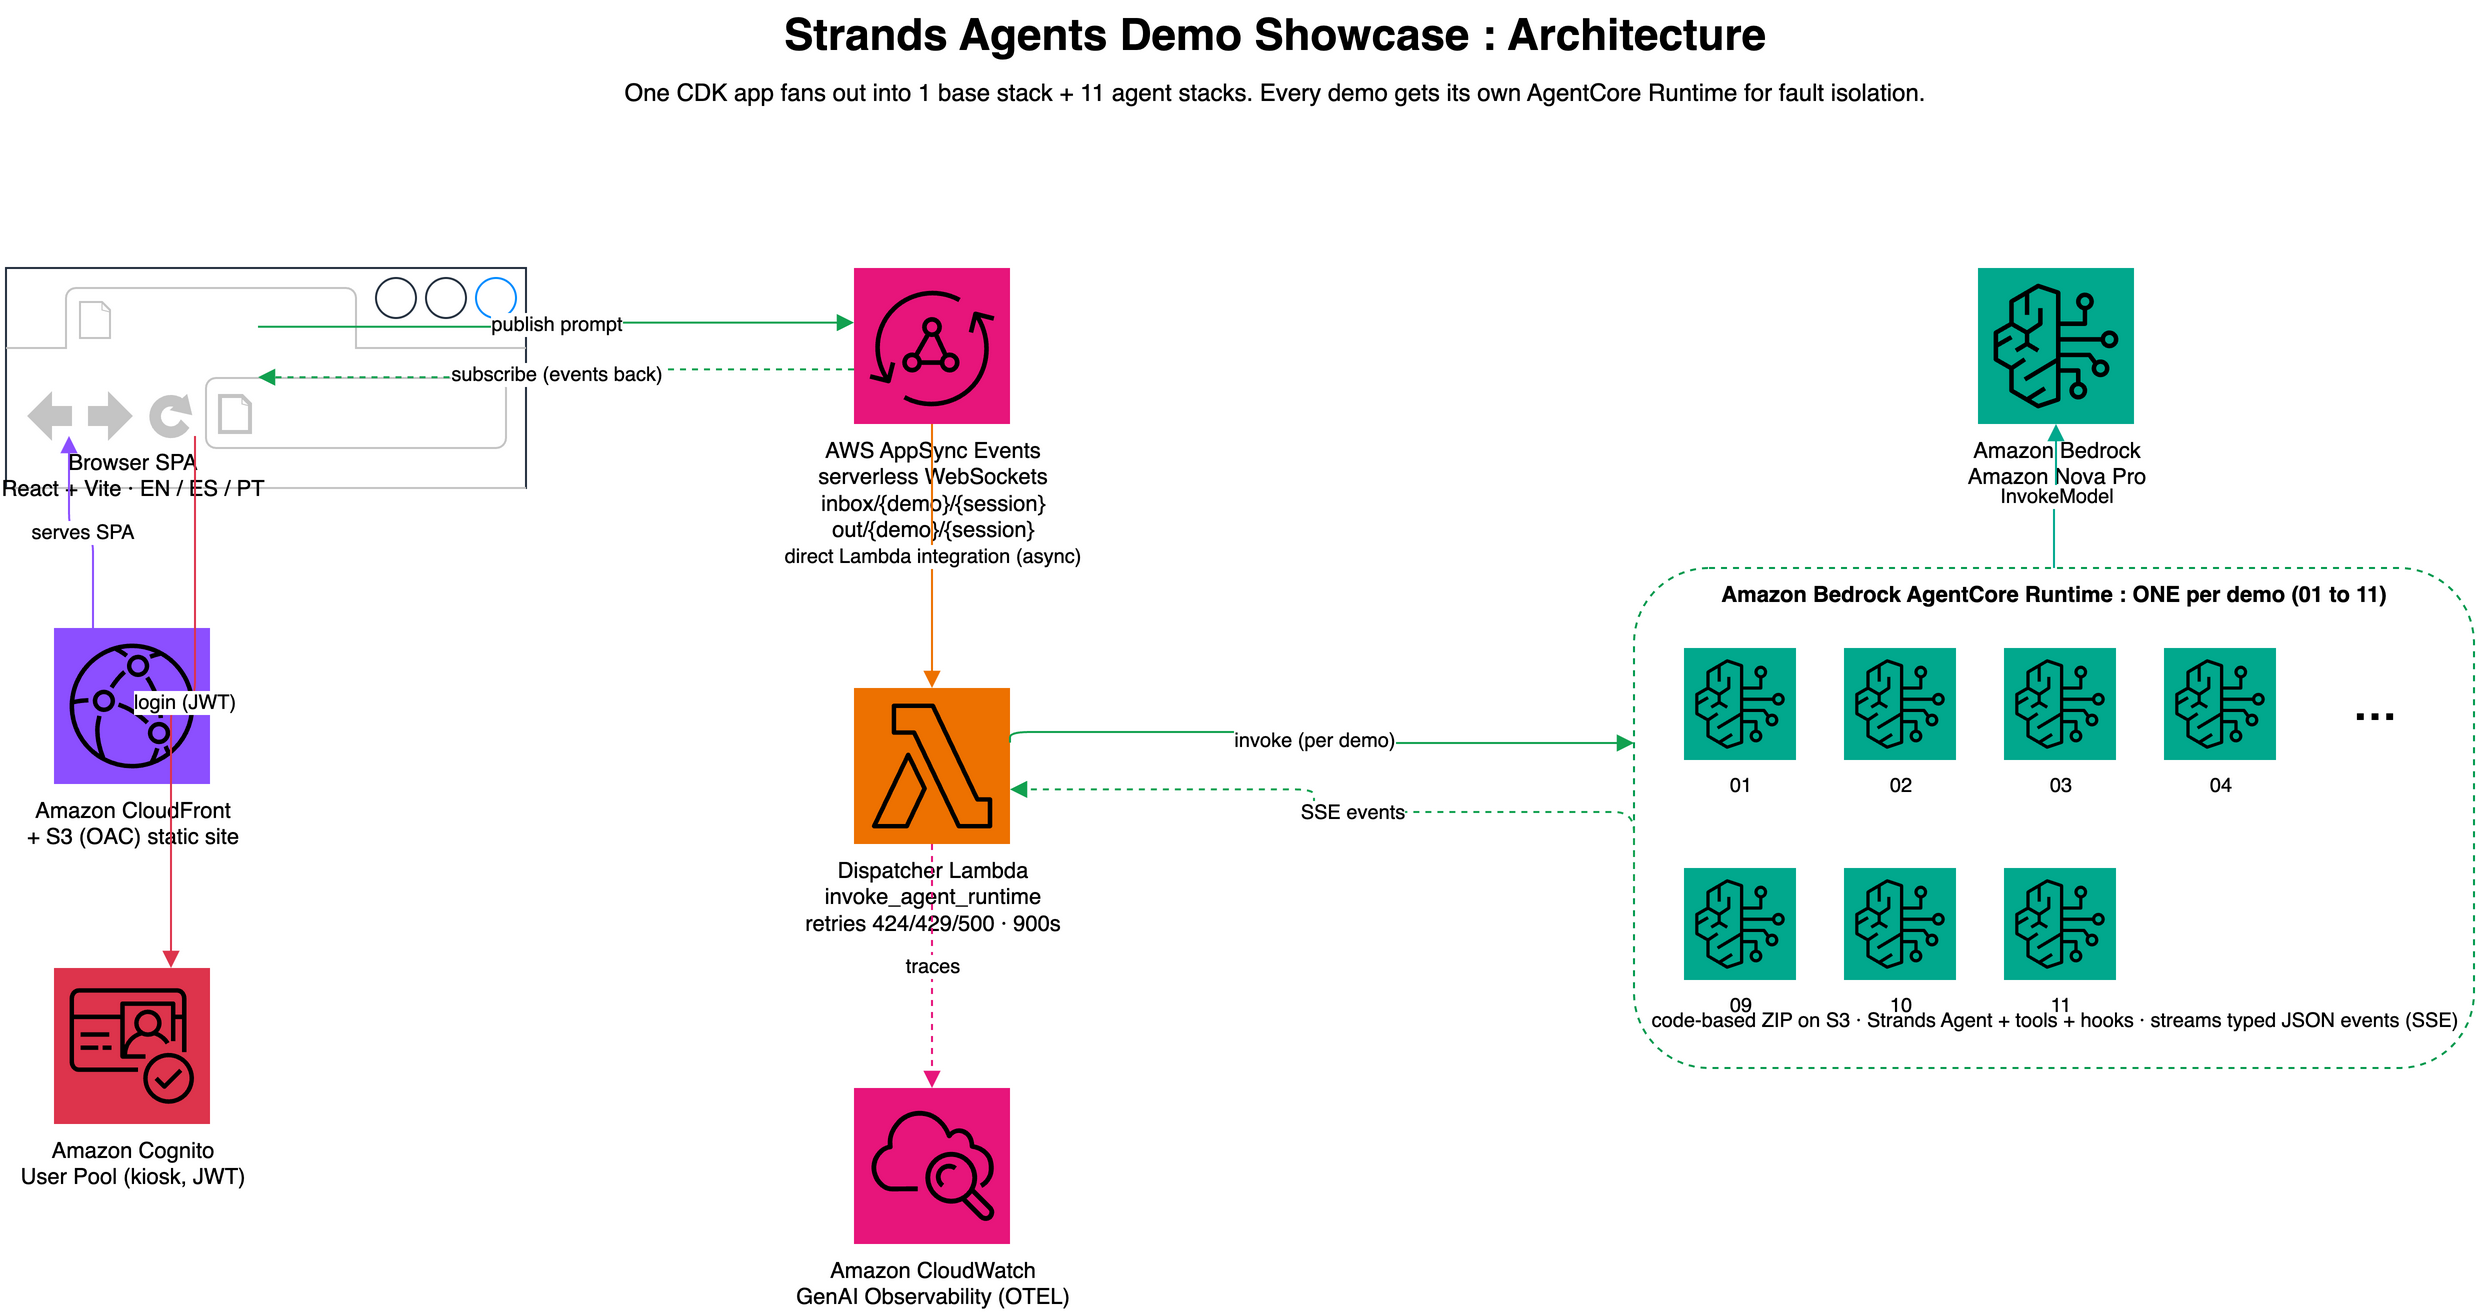
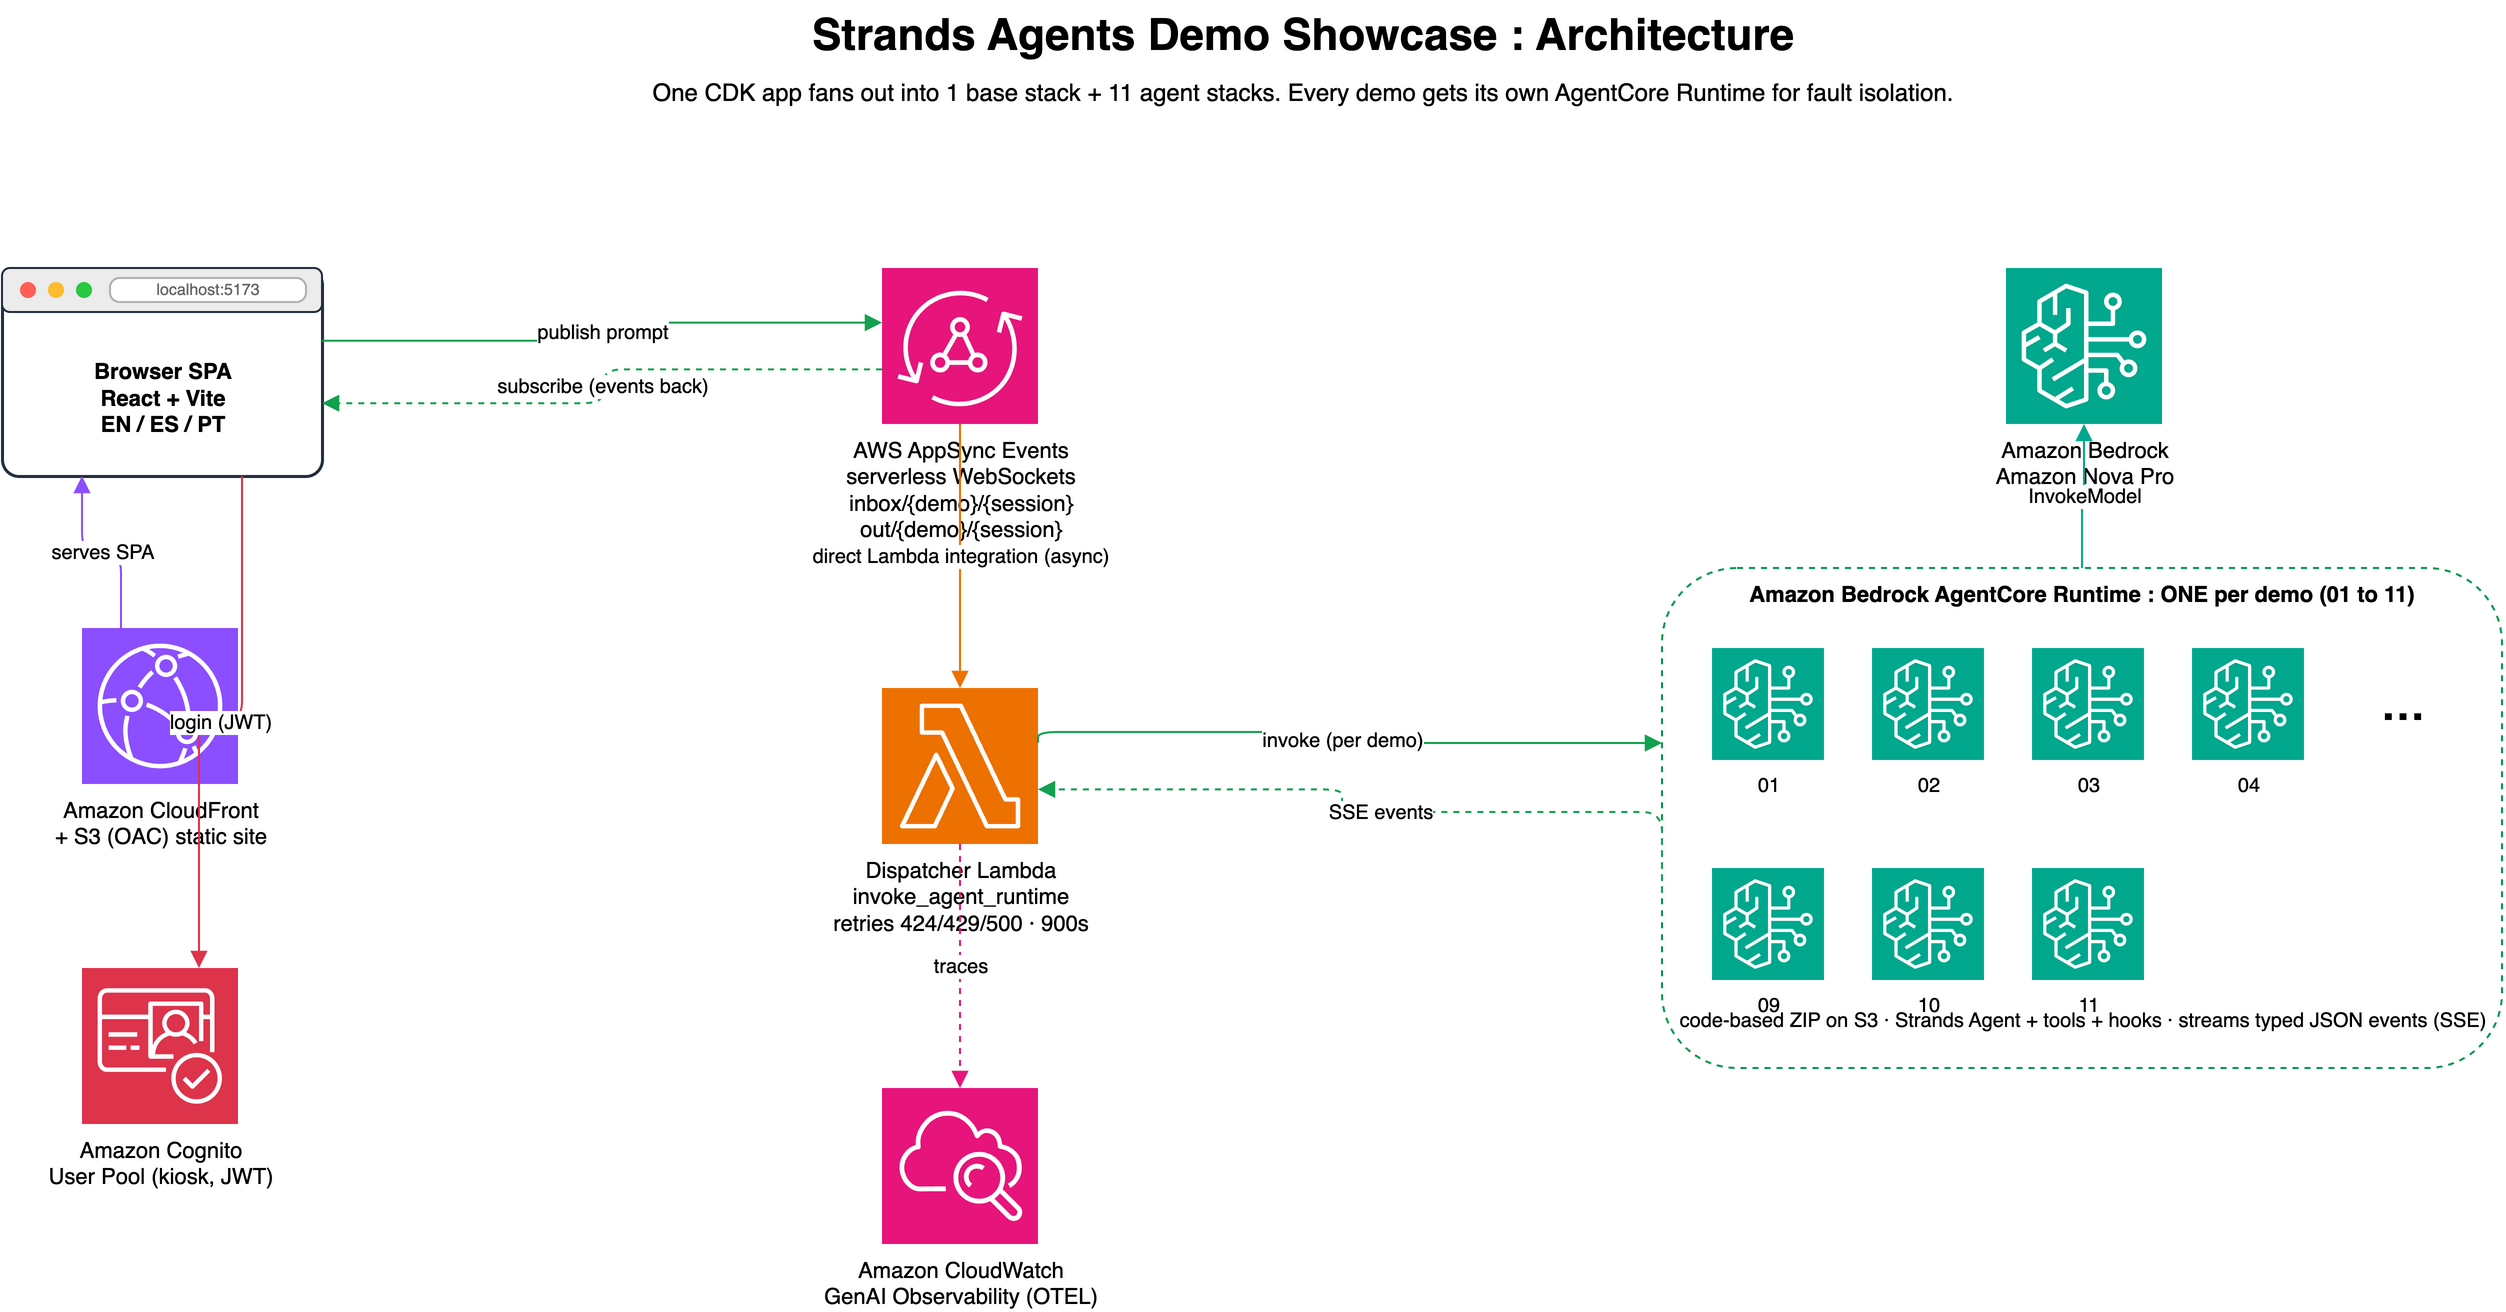
Fix empty chat for Nova, add per-demo routing and share meta tags

diff --git a/web/src/App.tsx b/web/src/App.tsx
@@ -1,6 +1,7 @@
 import { useCallback, useEffect, useRef, useState } from 'react'
-import { DemoDef, getDemos } from './config'
+import { DemoDef, DEMO_SLUGS, getDemos } from './config'
 import { getStoredLang, Lang, storeLang, STRINGS, Strings } from './i18n'
+import { parseRoute, pushRoute, ROBOTS_ROUTE, slugToPath } from './routes'
 import { getToken, login, logout } from './services/auth'
 import { AgentEvent, DemoSession, newSessionId } from './services/events'
 
@@ -332,7 +333,9 @@ function InsightCard({ event, t }: { event: AgentEvent; t: Strings }) {
 export default function App() {
   const [lang, setLang] = useState<Lang>(getStoredLang())
   const [authed, setAuthed] = useState(!!getToken())
-  const [demoSlug, setDemoSlug] = useState('agent-loop')
+  // Initial demo/robots view come from the URL (e.g. /agent_loop, /hooks, /robots).
+  const initialRoute = parseRoute(window.location.pathname, DEMO_SLUGS[0])
+  const [demoSlug, setDemoSlug] = useState(initialRoute.slug)
   const [status, setStatus] = useState<'connecting' | 'ready' | 'closed' | 'error'>('closed')
   const [messages, setMessages] = useState<ChatMsg[]>([])
   const [insights, setInsights] = useState<AgentEvent[]>([])
@@ -344,7 +347,7 @@ export default function App() {
     id: string
     reason: unknown
   } | null>(null)
-  const [showRobots, setShowRobots] = useState(false)
+  const [showRobots, setShowRobots] = useState(initialRoute.robots)
   const sessionRef = useRef<DemoSession | null>(null)
   const feedRef = useRef<HTMLDivElement>(null)
   const msgsRef = useRef<HTMLDivElement>(null)
@@ -358,6 +361,28 @@ export default function App() {
     storeLang(l)
     setLang(l)
   }
+
+  // Navigate to a demo (or the robots slot) and reflect it in the address bar.
+  const goToDemo = (slug: string) => {
+    setShowRobots(false)
+    setDemoSlug(slug)
+    pushRoute(slugToPath(slug))
+  }
+  const goToRobots = () => {
+    setShowRobots(true)
+    pushRoute('/' + ROBOTS_ROUTE)
+  }
+
+  // Keep the view in sync with browser back/forward.
+  useEffect(() => {
+    const onPop = () => {
+      const r = parseRoute(window.location.pathname, DEMO_SLUGS[0])
+      setShowRobots(r.robots)
+      setDemoSlug(r.slug)
+    }
+    window.addEventListener('popstate', onPop)
+    return () => window.removeEventListener('popstate', onPop)
+  }, [])
 
   const handleEvent = useCallback((e: AgentEvent) => {
     if (e.type === 'token') {
@@ -504,10 +529,7 @@ export default function App() {
                   <button
                     key={d.slug}
                     className={`item ${d.slug === demo.slug && !showRobots ? 'active' : ''}`}
-                    onClick={() => {
-                      setShowRobots(false)
-                      setDemoSlug(d.slug)
-                    }}
+                    onClick={() => goToDemo(d.slug)}
                   >
                     {d.title}
                   </button>
@@ -517,7 +539,7 @@ export default function App() {
           <div className="category">🤖 Robots</div>
           <button
             className={`item ${showRobots ? 'active' : ''}`}
-            onClick={() => setShowRobots(true)}
+            onClick={goToRobots}
           >
             {t.robotsTitle}
           </button>

diff --git a/web/src/routes.ts b/web/src/routes.ts
@@ -1,0 +1,63 @@
+// Lightweight URL routing for the SPA (no router dependency).
+//
+// Each demo has a direct URL path so visitors can deep-link straight to it,
+// e.g. /agent_loop, /structured_output, /hooks. CloudFront rewrites 403/404 to
+// /index.html (see web-infra/stacks/web_stack.py), so these paths resolve to
+// the SPA on a static S3 + CloudFront deploy as well as under `vite dev`.
+import { DEMO_SLUGS } from './config'
+
+export const ROBOTS_ROUTE = 'robots'
+
+// path segment (no leading slash) -> canonical demo slug.
+// Canonical path is the slug with underscores (/agent_loop). We also accept the
+// slug itself (/agent-loop) and a few short, memorable aliases.
+const ALIASES: Record<string, string> = {
+  hooks: 'hooks-guardian',
+  guardian: 'hooks-guardian',
+  hitl: 'human-in-the-loop',
+  tokens: 'token-optimization',
+  memory: 'memory-poisoning',
+  chaos: 'chaos-resilience',
+  xray: 'observability',
+}
+
+function pathToSlug(): Record<string, string> {
+  const map: Record<string, string> = {}
+  for (const slug of DEMO_SLUGS) {
+    map[slug] = slug // hyphen form: /agent-loop
+    map[slug.replace(/-/g, '_')] = slug // underscore form: /agent_loop
+  }
+  for (const [alias, slug] of Object.entries(ALIASES)) map[alias] = slug
+  return map
+}
+
+const PATH_TO_SLUG = pathToSlug()
+
+export interface Route {
+  robots: boolean
+  slug: string
+}
+
+function normalize(pathname: string): string {
+  return pathname.replace(/^\/+/, '').replace(/\/+$/, '').toLowerCase()
+}
+
+/** Parse the current location into a route. Unknown paths fall back to the first demo. */
+export function parseRoute(pathname: string, fallbackSlug: string): Route {
+  const seg = normalize(pathname)
+  if (seg === ROBOTS_ROUTE) return { robots: true, slug: fallbackSlug }
+  const slug = PATH_TO_SLUG[seg]
+  return { robots: false, slug: slug ?? fallbackSlug }
+}
+
+/** Canonical URL path for a demo slug (underscore form). */
+export function slugToPath(slug: string): string {
+  return '/' + slug.replace(/-/g, '_')
+}
+
+/** Push a new route into the address bar without reloading the page. */
+export function pushRoute(path: string): void {
+  if (window.location.pathname !== path) {
+    window.history.pushState({}, '', path)
+  }
+}

diff --git a/web/index.html b/web/index.html
@@ -3,7 +3,30 @@
   <head>
     <meta charset="UTF-8" />
     <meta name="viewport" content="width=device-width, initial-scale=1.0" />
-    <title>Strands Agents — Demos</title>
+    <title>Strands Agents Demos — see what your agent is doing</title>
+    <meta
+      name="description"
+      content="Interactive demos of the Strands Agents framework on AWS: a live chat plus an under-the-hood panel that shows the agent loop, tool calls, hooks, and multi-agent handoffs in real time."
+    />
+    <meta name="theme-color" content="#12a150" />
+
+    <!-- Open Graph (link previews on Slack, LinkedIn, WhatsApp, etc.) -->
+    <meta property="og:type" content="website" />
+    <meta property="og:site_name" content="Strands Agents Demos" />
+    <meta property="og:title" content="Strands Agents Demos — see what your agent is doing" />
+    <meta
+      property="og:description"
+      content="Live demos of the Strands Agents framework on AWS: chat on the left, a real-time under-the-hood panel on the right (agent loop, tools, hooks, swarms)."
+    />
+    <meta property="og:url" content="https://d2l3lx6a3x8wak.cloudfront.net/" />
+
+    <!-- Twitter / X card -->
+    <meta name="twitter:card" content="summary_large_image" />
+    <meta name="twitter:title" content="Strands Agents Demos — see what your agent is doing" />
+    <meta
+      name="twitter:description"
+      content="Live demos of the Strands Agents framework on AWS with a real-time under-the-hood panel."
+    />
   </head>
   <body>
     <div id="root"></div>

diff --git a/web/src/config.ts b/web/src/config.ts
@@ -736,3 +736,6 @@ class ResilienceHook(HookProvider):
 export function getDemos(lang: Lang): DemoDef[] {
   return ENTRIES.map((e) => ({ slug: e.slug, code: e.code, docsUrl: e.docsUrl, ...e.text[lang] }))
 }
+
+// The canonical slug of every demo, in menu order. Source of truth for routing.
+export const DEMO_SLUGS: string[] = ENTRIES.map((e) => e.slug)

diff --git a/agents/common/streaming.py b/agents/common/streaming.py
@@ -28,8 +28,15 @@ class _ThinkingSplitter:
             if self.in_thinking:
                 idx = self.pending.find(_CLOSE)
                 if idx == -1:
-                    self.thinking += self.pending
-                    self.pending = ""
+                    # Hold back any partial "</thinking" prefix at the tail so a
+                    # close tag split across chunks is still detected next feed.
+                    keep = 0
+                    for n in range(min(len(_CLOSE) - 1, len(self.pending)), 0, -1):
+                        if _CLOSE.startswith(self.pending[-n:]):
+                            keep = n
+                            break
+                    self.thinking += self.pending[: len(self.pending) - keep]
+                    self.pending = self.pending[len(self.pending) - keep:]
                     break
                 self.thinking += self.pending[:idx]
                 self.pending = self.pending[idx + len(_CLOSE):]
@@ -66,6 +73,11 @@ class _ThinkingSplitter:
         self.in_thinking = False
         return out
 
+    def restart(self, in_thinking: bool = False) -> None:
+        """Reset state for a new segment (e.g. a new agent-loop cycle)."""
+        self.pending = self.thinking = ""
+        self.in_thinking = in_thinking
+
 
 async def stream_agent_events(agent, prompt, drain=None, **stream_kwargs):
     """Yield demo-protocol dicts from a Strands agent stream.
@@ -77,24 +89,37 @@ async def stream_agent_events(agent, prompt, drain=None, **stream_kwargs):
     tool_started_at = {}
     tool_names = {}
     splitter = _ThinkingSplitter()
+    # Nova streams its answer through the native reasoning channel, opening with
+    # implicit thinking (no <thinking> tag) and closing with </thinking>; the
+    # text AFTER that close tag is the user-facing answer. Split it so reasoning
+    # goes to the panel and the answer reaches the chat as tokens.
+    reasoning_splitter = _ThinkingSplitter()
+    reasoning_splitter.in_thinking = True
+
+    def _emit(kind, chunk):
+        if kind == "token":
+            return ev.token(chunk)
+        return {"type": "reasoning", "cycle": cycle, "text": chunk}
 
     def _split(text):
         for kind, chunk in splitter.feed(text):
-            if kind == "token":
-                yield ev.token(chunk)
-            else:
-                yield {"type": "reasoning", "cycle": cycle, "text": chunk}
+            yield _emit(kind, chunk)
 
     async for event in agent.stream_async(prompt, **stream_kwargs):
         if drain:
             for extra in drain():
                 yield extra
         if event.get("start_event_loop"):
+            # Close out the previous cycle's reasoning before starting a new one.
+            for kind, chunk in reasoning_splitter.flush():
+                yield _emit(kind, chunk)
+            reasoning_splitter.restart(in_thinking=True)
             cycle += 1
             yield ev.cycle_start(cycle)
         elif event.get("reasoning") and event.get("reasoningText"):
             # Native reasoning events (models with explicit reasoning support).
-            yield {"type": "reasoning", "cycle": cycle, "text": event["reasoningText"]}
+            for kind, chunk in reasoning_splitter.feed(event["reasoningText"]):
+                yield _emit(kind, chunk)
         elif "data" in event:
             for out in _split(event["data"]):
                 yield out
@@ -123,10 +148,10 @@ async def stream_agent_events(agent, prompt, drain=None, **stream_kwargs):
                             tool_names.get(tool_id, "unknown"), text_out, duration_ms
                         )
         elif "result" in event:
+            for kind, chunk in reasoning_splitter.flush():
+                yield _emit(kind, chunk)
             for kind, chunk in splitter.flush():
-                yield ev.token(chunk) if kind == "token" else {
-                    "type": "reasoning", "cycle": cycle, "text": chunk,
-                }
+                yield _emit(kind, chunk)
             yield ev.metrics_from_result(event["result"])
     if drain:
         for extra in drain():
